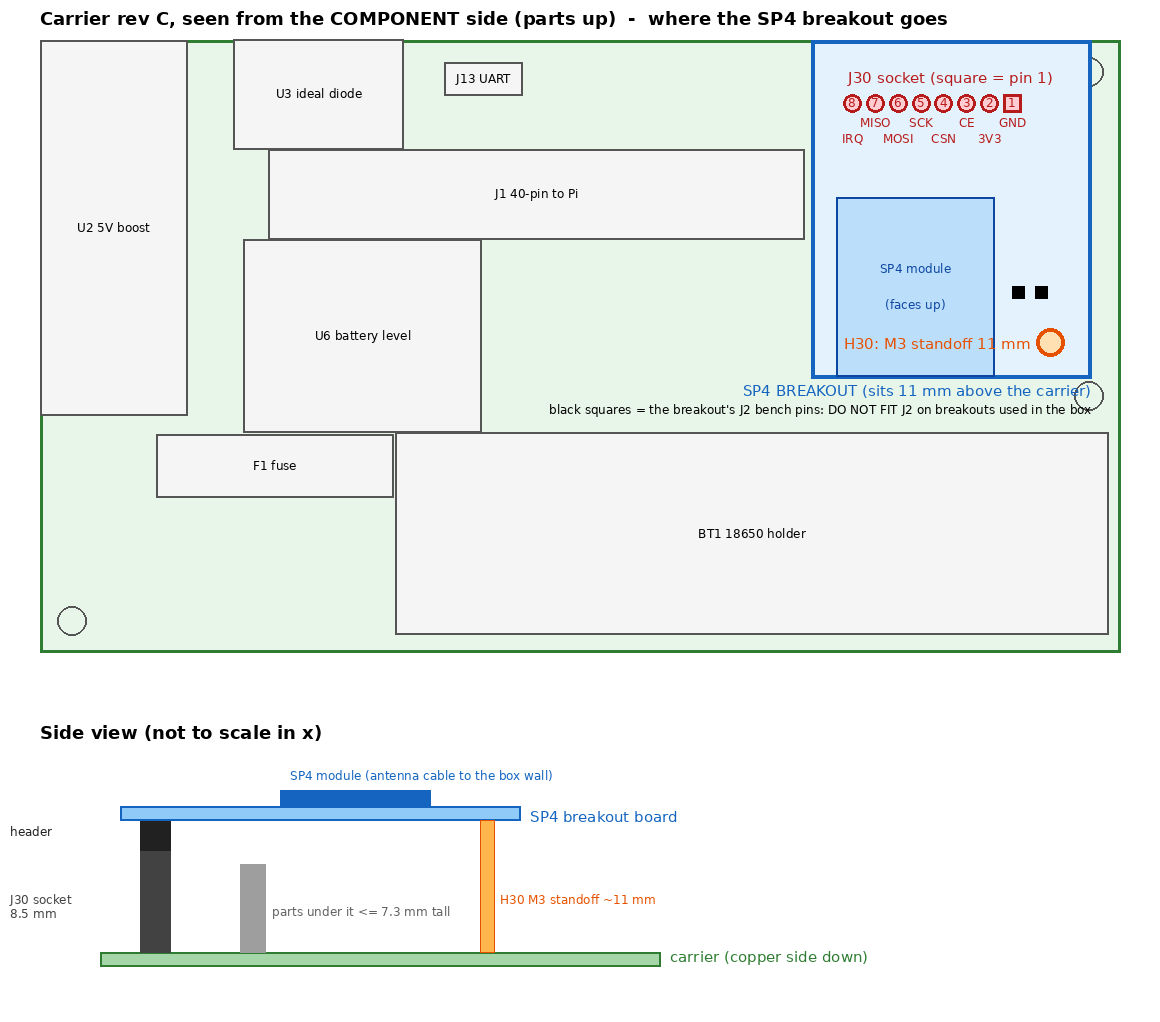
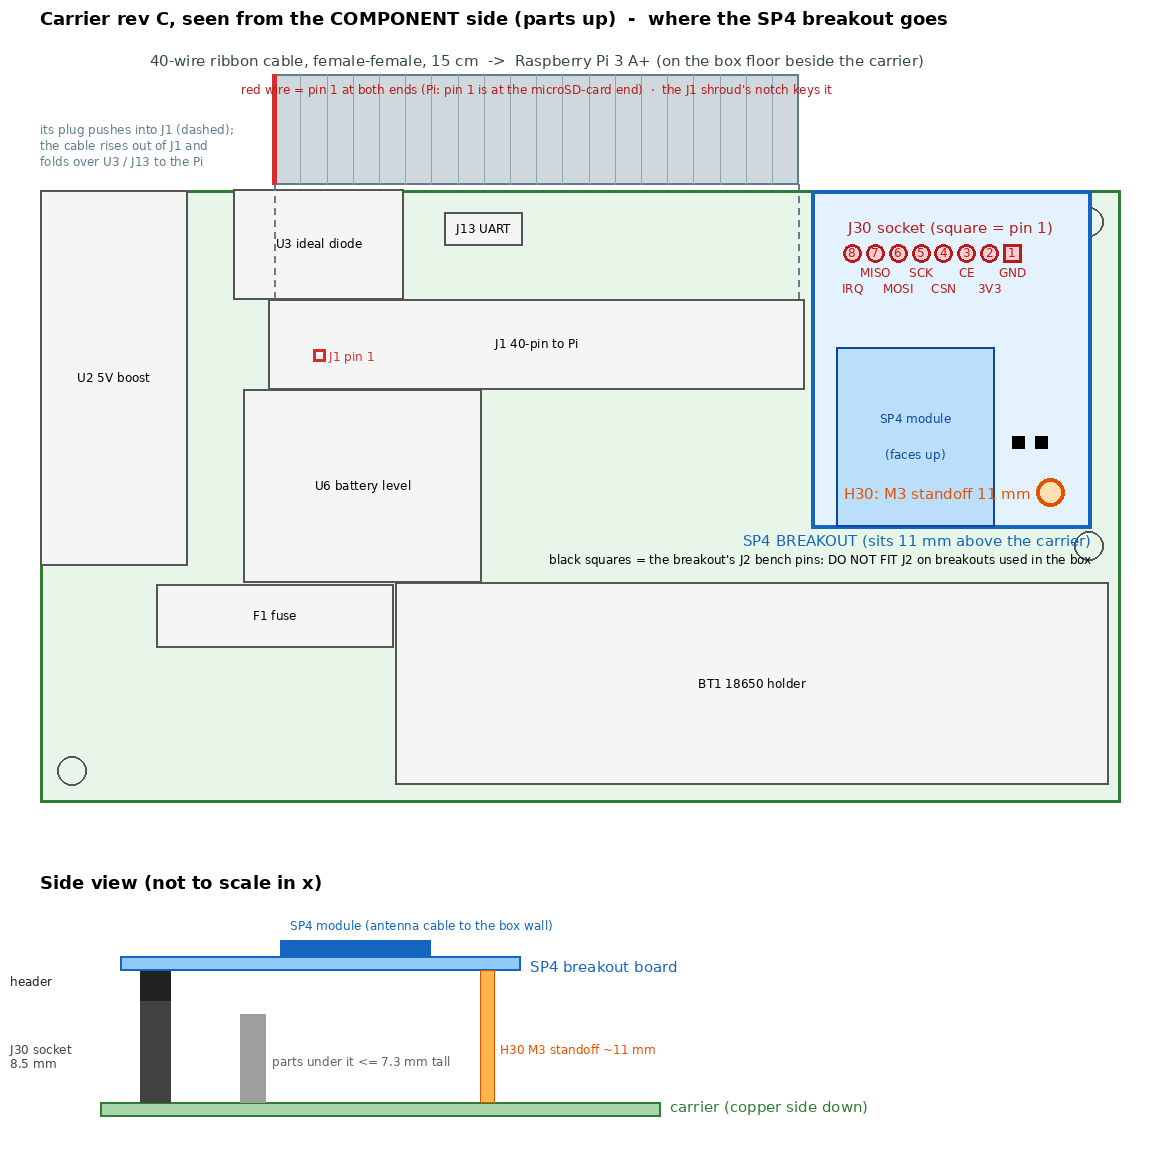
Rev C placement drawing: the 40-wire ribbon to the Pi (red wire = pin 1, J1 pin 1 marked)
Claude-Session: https://claude.ai/code/session_01PKzvcoWGaf5niy6TrXYsya

diff --git a/hw/scripts/draw_breakout_placement.py b/hw/scripts/draw_breakout_placement.py
@@ -32,8 +32,9 @@ def bbox(f, back):
 eb = cb.GetBoardEdgesBoundingBox()
 X0, Y0, X1, Y1 = T(eb.GetLeft()), T(eb.GetTop()), T(eb.GetRight()), T(eb.GetBottom())
 S, M = 9.0, 40          # px per mm, margin px
+TOP = 150               # room above the board for the ribbon cable to the Pi
 W = int((X1 - X0) * S) + 2 * M
-H_TOP = int((Y1 - Y0) * S) + 2 * M
+H_TOP = int((Y1 - Y0) * S) + 2 * M + TOP
 H = H_TOP + 330
 img = Image.new("RGB", (W, H), "white")
 d = ImageDraw.Draw(img)
@@ -47,7 +48,7 @@ except OSError:
 
 def P(x, y):
     """KiCad page mm -> pixel, seen from the COMPONENT side (mirror x)."""
-    return M + (X1 - x) * S, M + (y - Y0) * S
+    return M + (X1 - x) * S, M + TOP + (y - Y0) * S
 
 
 def rect(x1, y1, x2, y2, **kw):
@@ -130,6 +131,34 @@ for x, y in pads(fp(br, "J2")).values():
     d.rectangle([px - 6, py - 6, px + 6, py + 6], fill="black")
 t = "black squares = the breakout's J2 bench pins: DO NOT FIT J2 on breakouts used in the box"
 d.text((box[2] - d.textlength(t, font=small), box[3] + 24), t, fill="black", font=small)
+
+# the 40-wire ribbon to the Pi: female sockets at both ends, one pushes into J1 (the shrouded box header, keyed),
+# the other onto the Pi's 40 male pins; red wire = pin 1 at both ends
+j1 = fp(cb, "J1")
+jx1, jy1, jx2, jy2 = bbox(j1, True)
+jp = pads(j1)
+a, b = P(jx1, jy1), P(jx2, jy2)
+rl, rr, jtop = min(a[0], b[0]) + 6, max(a[0], b[0]) - 6, min(a[1], b[1])
+rtop = P(X0, Y0)[1] - 6                                   # the cable drawn above the board; it rises out of J1
+d.rectangle([rl, M + 34, rr, rtop], fill="#cfd8dc", outline="#607d8b", width=2)
+for i in range(1, 20):                                   # the ribbon's wires
+    xx = rl + (rr - rl) * i / 20
+    d.line([xx, M + 34, xx, rtop], fill="#90a4ae", width=1)
+p1x = P(*jp["1"])[0]
+red_x = rl if abs(p1x - rl) < abs(p1x - rr) else rr      # red wire on the pin-1 side
+d.line([red_x, M + 34, red_x, rtop], fill="#d32f2f", width=5)
+for xx in (rl, rr):                                      # dashed: the plug goes down into J1 (over U3 / J13)
+    for yy in range(int(rtop), int(jtop), 12):
+        d.line([xx, yy, xx, min(yy + 6, jtop)], fill="#607d8b", width=2)
+for i, t in enumerate(("its plug pushes into J1 (dashed);", "the cable rises out of J1 and", "folds over U3 / J13 to the Pi")):
+    d.text((M, rtop - 62 + i * 16), t, fill="#607d8b", font=small)
+t = "40-wire ribbon cable, female-female, 15 cm  ->  Raspberry Pi 3 A+ (on the box floor beside the carrier)"
+d.text(((rl + rr) / 2 - d.textlength(t, font=font) / 2, M + 12), t, fill="#37474f", font=font)
+t = "red wire = pin 1 at both ends (Pi: pin 1 is at the microSD-card end)  ·  the J1 shroud's notch keys it"
+d.text(((rl + rr) / 2 - d.textlength(t, font=small) / 2, M + 34 + 8), t, fill="#b71c1c", font=small)
+px, py = P(*jp["1"])
+d.rectangle([px - 6, py - 6, px + 6, py + 6], outline="#d32f2f", width=3)
+d.text((px + 10, py - 7), "J1 pin 1", fill="#d32f2f", font=small)
 
 d.text((M, 8), "Carrier rev C, seen from the COMPONENT side (parts up)  -  where the SP4 breakout goes",
        fill="black", font=big)
